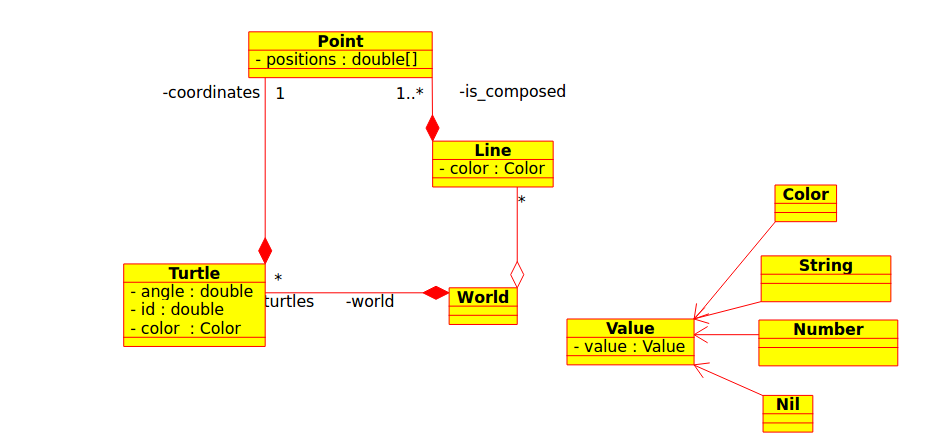
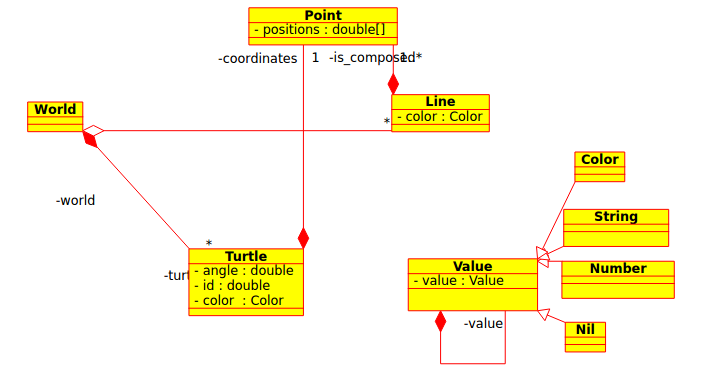
Rapprot : changement sur modele.tex et ajout d'uml

diff --git a/doc/report/modele.tex b/doc/report/modele.tex
@@ -1,5 +1,6 @@
 \section{Les classes \enquote{agents}}
-Lors du premier sprint, nous avons dû mettre en place la base du programme. Nous avions prévu de faire l'UML~\ref{v0.1} page~\pageref{v0.1}.
+\subsubsection{Sprint 1 \& 2}
+Lors du premier sprint, nous avons commencer par mettre en place la base du programme. Nous avions prévu de faire l'UML~\ref{v0.1}.
 
  Pour le modèle, il s'agissait de mettre en place les classes :
 \begin{itemize}
@@ -18,15 +19,15 @@ Lors du premier sprint, nous avons dû mettre en place la base du programme. Nou
 
 La classe World représente le monde des tortues. Il contient la liste des tortues, et les lignes tracées par ces tortues.
 A la fin du sprint 1, on pouvait voir une tortue avancer et tracer une ligne sur sur passage.
-Nous avions réalisé le schéma~\ref{v0.1R} page~\pageref{v0.1R}, en dehors de la classe Instruction.
+Nous avions réalisé le schéma~\ref{v0.1R}, en dehors de la classe Instruction.
 
 
-Pour le second sprint, nous avons ajouté une classe Agent, car les classes World, Turtle et Zone sont des agents, au sens multi-agent (cf ~\ref{v0.2} page~\pageref{v0.2}) . Elle contient le code en commun de ces trois classes.
+Pour le second sprint, nous avons ajouté une classe Agent, car les classes World, Turtle et Zone sont des agents, au sens multi-agent (cf ~\ref{v0.2}) . Elle contient le code en commun de ces trois classes.
  
 Ils ont chacun un parent, celui qui l'a créer, une liste d'enfants, et des propriétés. Les propriétés sont des variables définit par l'utilisateur lors de la définition du code de l'agent, donc surtout utile pour les tortues.
 
 
-Le monde a une taille, une liste de \enquote{breed}, d'espèce. Il y a les espèces nommées et les \enquote{anonymes}, qui sont des turtles dans le code.
+Le monde a une taille, une liste de \enquote{breed}, d'espèce. Il y a les espèces nommées et les \enquote{anonymes}, qui sont des \enquote{turtles} dans le code.
 
 
 Comme le montre ce code, on peut créer des tortues nommées ou pas. Une tortue anonyme s'écrit \enquote{new agent} et une nommée \enquote{agent listener}.\\
@@ -44,62 +45,47 @@ new agent {
 	fd 5
 }
 \end{lstlisting}
-Lors du troisième sprint, nous avons mis en place des pointers intelligents dans toutes nos classes.
-
-
-Le but de ce sprint était la mise en place de la communication entre les agents. Les tortues peuvent communiquer avec les zones par écriture dans leurs propriétés. Les tortues peuvent communiquer entre elles grâce à des méthodes comme sendAll(message), recv(), etc 
-(cf figure~\ref{v0.3} page~\pageref{v0.3}).
-
+\subsubsection{Sprint 3 \& 4}
+Lors du troisième sprint, nous avons mis en place des pointers intelligents dans toutes nos classes. Le but de ce sprint était la mise en place de la communication entre les agents. Les tortues peuvent communiquer avec les zones par écriture dans leurs propriétés. Les tortues peuvent communiquer entre elles grâce à des méthodes comme sendAll(message), recv(), etc 
+(cf figure~\ref{v0.3}).
 
 Ensuite, nous devions ajouter des fonctionnalités tel que la maîtrise du temps et l'exportation du modèle. Ces ajouts ne provoquent pas de changement du coté du modèle, si ce n'est quelques méthodes dans les classes World et Turtle et Zone pour l'exportation du modèle.
 
-
 L'exportation du modèle consiste à créer une sauvegarde de l'état du modèle à un instant t dans un fichier JSON.
-
-
 Cela permettra ensuite, en passant par une transformation en CSV, d'avoir un tableau avec toutes ces données, ce qui offre la possibilité d'avoir des diagrammes de l'évolution du monde.
-
-
 
 La maîtrise du temps se fait grâce à un bouton pause, qui arrête les threads qui s'exécutent, ou par un slider qui permet de ralentir ou de diminuer la vitesse. Cela se fait dans le code grâce à une méthode sleepfor() qui prend en paramètre un temps donné.
 
 
 \section{Les types}
+\subsubsection{Sprint 1 \& 2}
 Lors du premier sprint, nous mettions en place certains types Stibbons, comme Color, pour la couleur, ou Nil qui a une valeur nulle. Ils héritent de Value, une classe abstraite qui contient une valeur et ses accesseurs.
-
-
-Les instructions tel que pendown, forward, etc, sont finalement des mots clés dans la grammaire du langage, et non pas des instructions, contrairement à ce que nous avions prévu (UML~\ref{v0.1} correspondant page~\pageref{v0.1}).\\
-
+Les instructions tel que pendown, forward, etc, sont finalement des mots clés dans la grammaire du langage, et non pas des instructions, contrairement à ce que nous avions prévu (cf UML~\ref{v0.1}).\\
+Elles existent néanmoins dans le modèle dans la classe Turtle (cf UML~\ref{v0.2}).
 
 \begin{figure}[h]
 \caption{\label{v0.1R} UML de la version 0.1 réalisée}
 \includegraphics[scale=0.5]{doc/report/uml/v01reel.png}
 \end{figure}
 
-Lors du sprint deux, les types stibbons sont les mêmes, mais leurs définitions s'est un peu compléxifiées en passant par une classe Simple-value, pour la mise en place des mutexs. Une énumeration des types Stibbons existe, elle est utiliser avec la méthode getType() pour pouvoir connaître le type de Value.
-
-
+Lors du sprint deux, les types Stibbons sont les mêmes, mais leurs définitions s'est un peu compléxifiées en passant par une classe Simple-value, pour la mise en place des mutexs. Une énumeration des types Stibbons existe, elle est utilisée avec la méthode getType() pour pouvoir connaître le type de Value.
 Pour que l'utilisateur puisse écrire des fonctions dans le code, nous avons ajouté une classe Function, qui stocke un arbre, qui contient le code la fonction, déjà parsé.
-\\ Des mutexs ont été ajouté dans toutes les classes pour assurer que les threads sont thread-safe (cf figure~\ref{v0.2} page~\pageref{v0.2}).
-
-
+\\ Des mutexs ont été ajouté dans toutes les classes pour assurer que les threads sont thread-safe (cf figure~\ref{v0.2}).
 A la fin de ce sprint, nous devions relancer le programme pour charger un nouveau fichier de code, ce qui n'était pas pratique.
-
-
-
 \begin{figure}[h]
 \caption{\label{v0.2} UML version 0.2}
 \includegraphics[scale=0.45]{doc/report/uml/v02.png}
 \end{figure}
-
-Lors du troisième sprint, nous avons ajouté des sous-classes de Function Standart-function et User-function pour représenter les fonctions standarts du langages (cf figure~\ref{v0.3} page~\pageref{v0.3}) .
+\subsubsection{Sprint 3 \& 4}
+Lors du troisième sprint, nous avons ajouté une sous-classe de Function : userFunction, qui représentent les fonctions crées par l'utilisateur (cf figure~\ref{v0.3}) . Nous avons également créer des fonctions standarts comme ask-zone, qui permet de donner un ordre aux zones.
 \begin{figure}[h]
 \caption{\label{v0.3} UML version 0.3}
 \includegraphics[scale=0.4]{doc/report/uml/v03.png}
 \end{figure}
-On les différencie des instructions par leurs parenthéses derrière leur nom.\\ Les User-function représentent les fonctions crées par l'utilisateur.\\
+
+On les différencie des instructions par leurs parenthéses derrière leur nom.
 L'ajout de table fait aussi partit de ce sprint. Nous avons choisi, pour notre langage un seul type de conteneur : les tableaux.
-Nous avons choisi de les écrire façon php, avec des accolades.\\
+Nous les écrivons façon php, avec des accolades.\\
 \begin{lstlisting}
 a = 12
 
@@ -116,5 +102,11 @@ u = 5 new agent {
 	while true fd 20
 }
 \end{lstlisting}
-Le sprint 5 n'apporte pas de grand changement dans le modèle. Notre UML définitif est donc celui du sprint 4.
+
+Nous avons mis en place des mutexs récursifs lors du sprint quatre. Ils permettent à un thread de verrouiller plusieurs fois la même ressources alors qu'elle est déjà verrouillée. C'est la seule différence avec le mutex normal. Ces mutexs permettent d'éviter des blocages dans certaines situations (fonctions récursives, ...) .
+L'UML~\ref{v0.4} est l'état final du modèle car le sprint 5 n'y a apporté aucune modification. 
+\begin{figure}[h]
+\caption{\label{v0.4} UML version 0.4}
+\includegraphics[scale=0.4]{doc/report/uml/v04.png}
+\end{figure}
 
